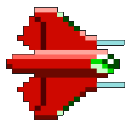
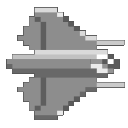
feat: adding color to movable entities and making their sprite gray

diff --git a/games/R-Type/src/Main.cpp b/games/R-Type/src/Main.cpp
@@ -26,6 +26,7 @@ GameEngine::Entity spawnBaseEntity(GameEngine::Registry &registry)
 GameEngine::Entity spawnMovableEntity(GameEngine::Registry &registry)
 {
     GameEngine::Entity entity = spawnBaseEntity(registry);
+    float entityColor[3] = {0.0, 1.0, 0.0};
 
     registry.addComponent<GameEngine::Controllable>(entity, GameEngine::Controllable{true});
     registry.addComponent<GameEngine::Position>(entity, GameEngine::Position{0.0f, 500.0f});
@@ -35,6 +36,8 @@ GameEngine::Entity spawnMovableEntity(GameEngine::Registry &registry)
         entity, GameEngine::Sprite{"./resources/R-Touhou/graphics/Player.png", sf::Sprite(), sf::Texture()});
     registry.addComponent<GameEngine::Life>(entity, GameEngine::Life{3});
     registry.addComponent<GameEngine::Hitbox>(entity, GameEngine::Hitbox{});
+    registry.addComponent<GameEngine::Color>(entity, GameEngine::Color{static_cast<GameEngine::ColorValue>(205 * entityColor[0] + 50), static_cast<GameEngine::ColorValue>(205 * entityColor[1] + 50), static_cast<GameEngine::ColorValue>(205 * entityColor[2] + 50)});
+    registry.addComponent<GameEngine::Outline>(entity, GameEngine::Outline{5, {static_cast<GameEngine::ColorValue>(100 * entityColor[0]), static_cast<GameEngine::ColorValue>(100 * entityColor[1]), static_cast<GameEngine::ColorValue>(100 * entityColor[2])}});
     return entity;
 }
 
